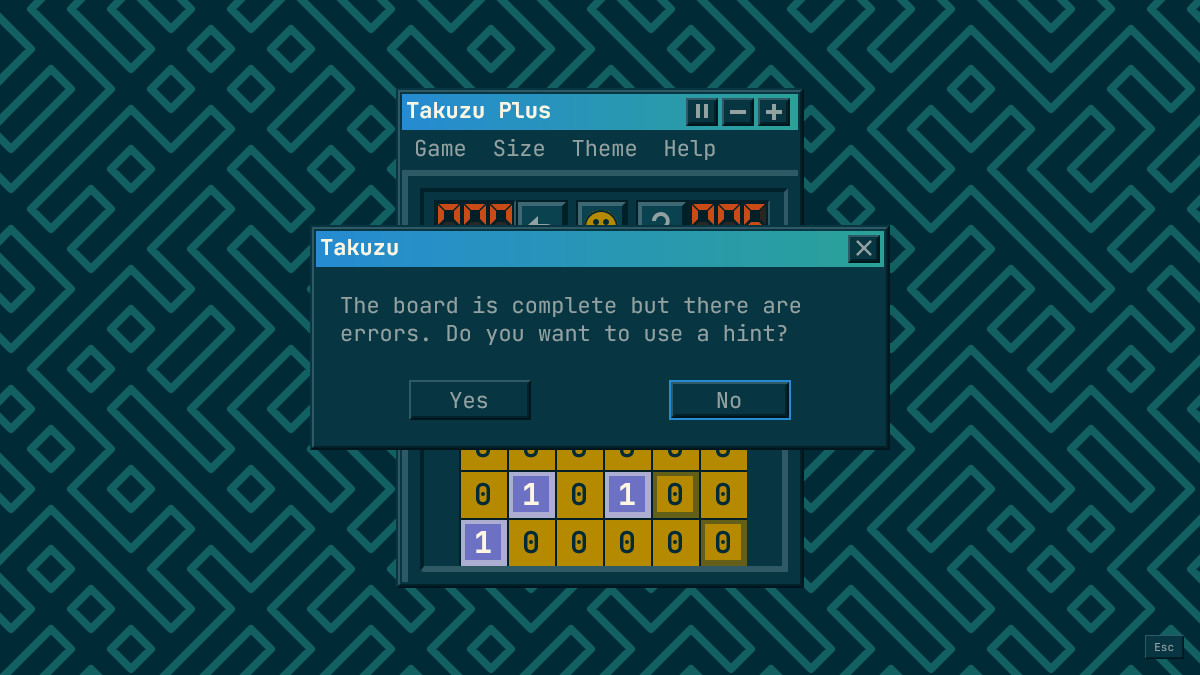
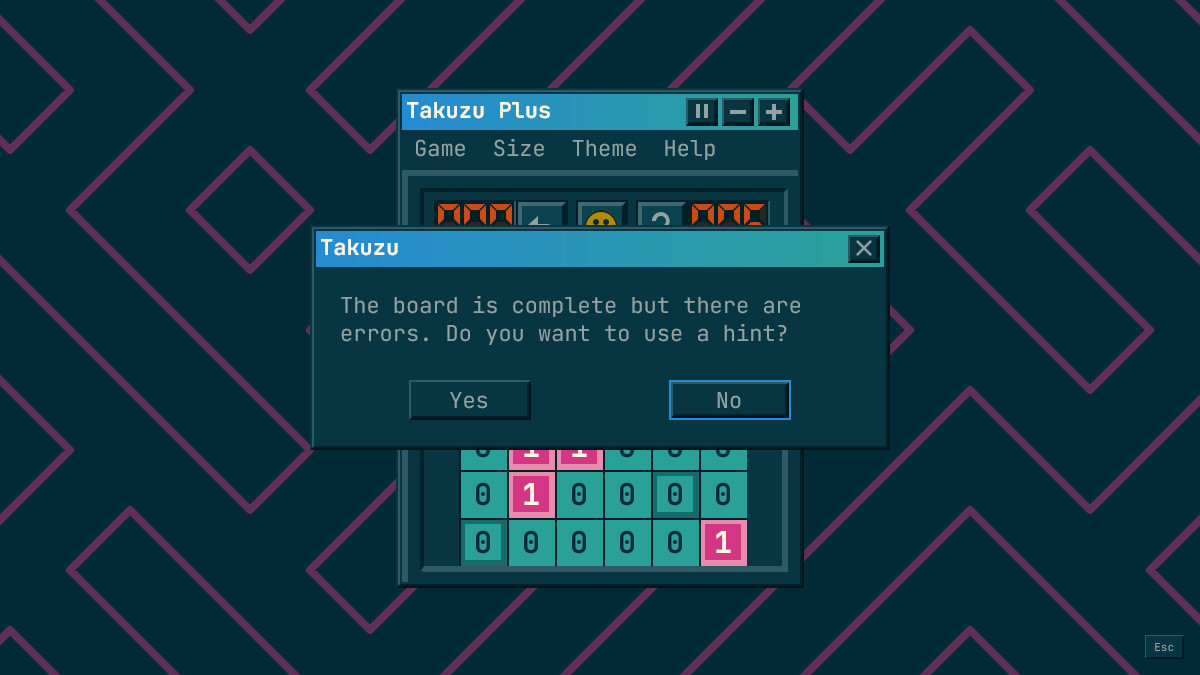
Use Solarized's cyan and magenta for Takuzu's tiles

Changed region(s): [[0.0, 0.0, 1.0, 1.0]]

diff --git a/src/takuzu/Cell.module.css b/src/takuzu/Cell.module.css
@@ -14,9 +14,9 @@
 }
 
 :global(:root:is([data-theme='solarized'], [data-theme='solarized-phosphor'])) {
-  --tz-zero: #b58900;
+  --tz-zero: #2aa198;
   --tz-zero-text: #002b36;
-  --tz-one: #6c71c4;
+  --tz-one: #d33682;
   --tz-one-text: #fdf6e3;
 }
 

diff --git a/README.md b/README.md
@@ -36,7 +36,7 @@ Binary puzzles: fill the grid with 0s and 1s so that no row or column has three 
 - **Playing**: click a cell to step it through 0, 1 and empty, right-click to step back, or tap on a touch screen. Clues are framed and can't be changed. **Undo** (Ctrl+Z, the Game menu or the arrow button) takes back one change at a time.
 - **Hint** (`H`, the Game menu or the ? button): points out a broken rule first, then a cell that can't fit the only solution, and otherwise the easiest next step with the cells it reasons from outlined in blue, the cell it fills in green and the reason under the board.
 - **Show Errors** (Game menu, off by default) stripes cells that break a rule as you go. When every cell is filled but the board isn't solved, the game asks whether you want a hint, or lets you find the mistake yourself. It asks straight away when the last click left a cell on its final value, and otherwise waits a moment, so stepping the last cell through 0 on the way to 1 never sets it off.
-- **Colours**: the two values are tiles in near complementary colours from each theme, blue and orange on Classic, yellow and violet on the Solarized themes, cyan and pink on Synthwave, frost and aurora on Nord, and green on black against black on green on Matrix. **Rain Glyphs** (Theme menu, on Matrix) draws them as two glyphs from the digital rain instead.
+- **Colours**: the two values are tiles in near complementary colours from each theme, blue and orange on Classic, cyan and magenta on the Solarized themes, cyan and pink on Synthwave, frost and aurora on Nord, and green on black against black on green on Matrix. **Rain Glyphs** (Theme menu, on Matrix) draws them as two glyphs from the digital rain instead.
 - **Best times** for every size and level, with and without hints, the window title (Takuzu on Classic, Takuzu Plus elsewhere), zoom and fit, pause, the boss key and the shortcuts work as in Minesweeper Plus. Big expert boards are dealt in the background, so the window never stalls.
 
 ## Minesweeper Plus
